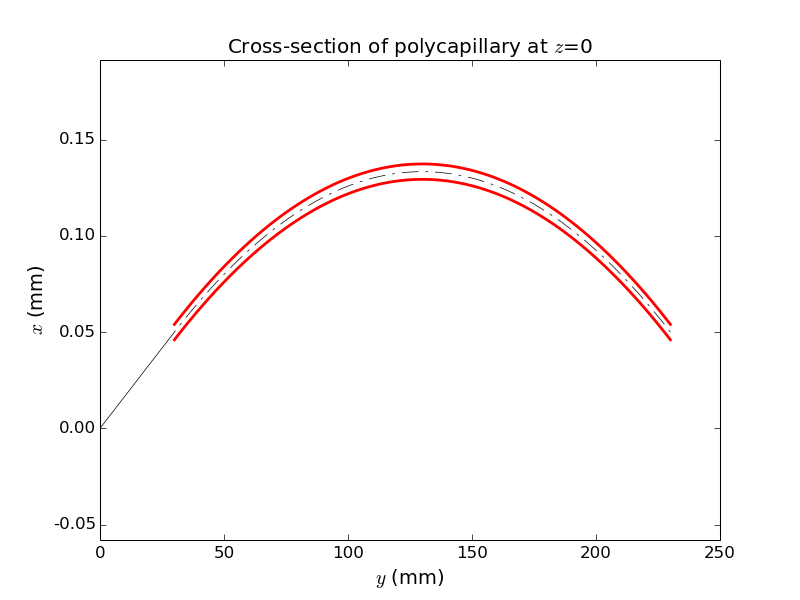
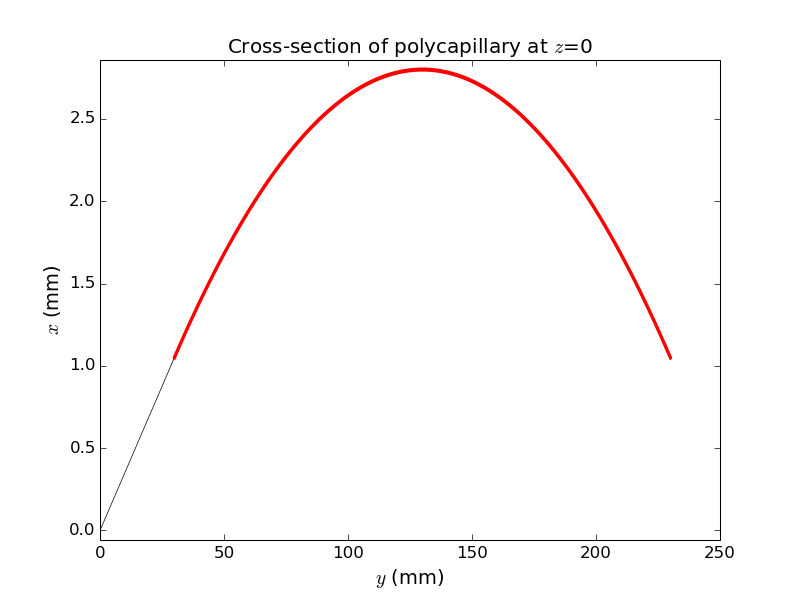
Sync commit

diff --git a/simplfiedMonoCapillary.py b/simplfiedMonoCapillary.py
@@ -42,11 +42,11 @@ rOut = 0.002*2
 wall = 0.0005
 
 # parameters for local_x0 function for actual shape definition
-y_in    = 0.05             # entrance height
+x_in    = 1.05             # entrance height
 rS      = float(rSample)    # light source - capillary distance 
 # Cosh parameter for tangential ray entrance
-a_      = -L_/2.0/np.arcsinh(-y_in/rS)
-print a_, y_in/rS
+a_      = -L_/2.0/np.arcsinh(-x_in/rS)
+print a_, x_in/rS
 
 # image acquisition
 screen1_pos = rSample           # not really used
@@ -68,16 +68,20 @@ distzprime  = 'normal'
 dzprime     = 0.1
 
 
-class StraightCapillary(roe.OE):
+class BentCapillary(roe.OE):
     def __init__(self, *args, **kwargs):
         self.rSample = kwargs.pop('rSample')
         self.entranceAlpha = kwargs.pop('entranceAlpha')
         self.f = kwargs.pop('f') # 
         self.r0in = kwargs.pop('rIn')
         self.r0out = kwargs.pop('rOut')
+        # New parameters
+        self.x_in   = kwargs.pop('x_in')
         roe.OE.__init__(self, *args, **kwargs)
-
-        s0 = self.f - self.rSample * np.cos(self.entranceAlpha)
+      
+        self.L_ = self.f - self.rSample
+        self.a_ = -self.L_/2.0/np.arcsinh(-self.x_in/self.rSample)
+	s0 = self.f - self.rSample * np.cos(self.entranceAlpha)
         self.a0 = -np.tan(self.entranceAlpha) / 2 / s0
         self.b0 = 0.5*self.rSample * np.sin(self.entranceAlpha) - self.a0 * s0**2
         self.b0 = 0.
@@ -88,11 +92,10 @@ class StraightCapillary(roe.OE):
 
     def local_x0(self, s):  # axis of capillary, x(s)
         # s*0 is needed for this method to act as a function rather than variable?
-        return -a_*np.cosh((s-L_/2.0)/a_) +  a_*np.cosh(L_/2.0/a_) + y_in
-        
+        return -self.a_*np.cosh((s-self.L_/2.0)/self.a_) +  self.a_*np.cosh(self.L_/2.0/self.a_) + self.x_in
 
     def local_x0Prime(self, s):
-        return -np.sinh((s-L_/2.0)/a_)
+        return -np.sinh((s-self.L_/2.0)/self.a_)
 
     def local_r0(self, s):  # radius of capillary (s)
         return self.ar *(s-self.s0)**2 + self.br #+ self.br*(2.0+np.cos(np.pi/2.0*(s-L_/2.0)/L_/2.0))
@@ -148,9 +151,9 @@ def build_beamline(nrays=1e5):
     # this parameter should be @line 8
     alpha = 0.000 # hopefully milliradian
     roll = 0 # test if this rotates whole object
-    capillary = StraightCapillary(
-        beamLine, 'StraightCapillary', [0,0,0], roll=roll,
-        material=mGlass, limPhysY=[rSample*np.cos(alpha), f],
+    capillary = BentCapillary(
+        beamLine, 'BentCapillary', [0,0,0], roll=roll,
+        material=mGlass, limPhysY=[rSample*np.cos(alpha), f], x_in=x_in,
         order=8, f=f, rSample=rSample, entranceAlpha=alpha, rIn=r0, rOut=rOut)
     beamLine.capillary = capillary         
 #    beamLine.capillaries.append(capillary)         
@@ -206,7 +209,7 @@ def main():
     plots = []
 
     limit_r = 1.6 * r0      # visible readius
-    xLimits = [y_in - limit_r, y_in + limit_r]
+    xLimits = [x_in - limit_r, x_in + limit_r]
     xpLimits = [-0.3, 0.3]
 #    zLimits = xLimits
     zLimits = [-limit_r, limit_r]
@@ -271,5 +274,5 @@ def main():
     
     
 if __name__ == '__main__':
-#    PlotMono.plot2D(build_beamline(),f)
-    main()
+    PlotMono.plot2D(build_beamline(),f)
+#    main()
